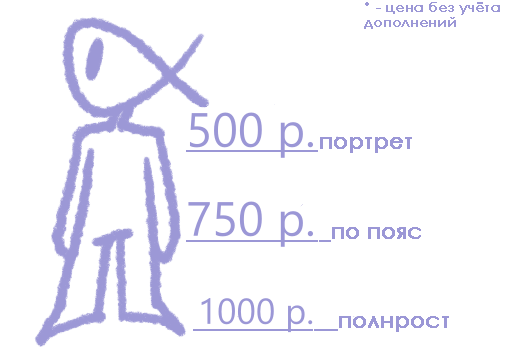
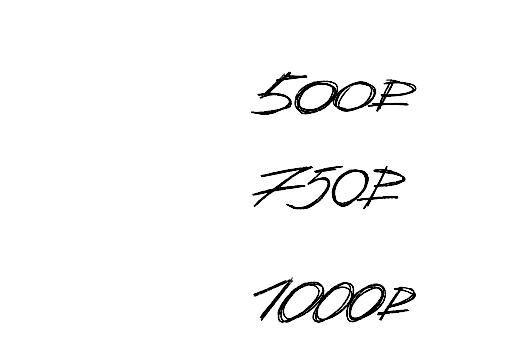
fix(comm.md): улучшено форматирование заголовков и добавлено описание условий работы

Changed region(s): [[0.0588, 0.0286, 0.8824, 1.0], [0.7059, 0.0, 0.9706, 0.0857], [0.6471, 0.6286, 0.8235, 0.6857]]

diff --git a/comm.md b/comm.md
@@ -13,9 +13,9 @@ header: False
 
 ![](/img/commprice.png){: width="920" height="300"}
 
-### Я рисую:
+#### Я рисую:
 &ensp; Люди, фурри, НСФВ (_с доплатой_), мелкие детали на персонажах, разные вариации стиля (см. мои имеющиеся работы в портфолио)
-### Не рисую:
+#### Не рисую:
 &ensp; Животные (ферралы), механизмы, гуро и сцены насилия
 
 ---
@@ -27,7 +27,7 @@ header: False
 &ensp; После скетча заказчиком вносится _предоплата 50%_ для продолжения работы.  
 &ensp; При включении 2го персонажа и более заказчиком вносится _доплата 100%_ на каждого от изначальной стоимости заказа.  
 &ensp; Правки на моменте скетча бесплатны. Если необходимо исправить что-то уже в готовой работе - _доплата 100 р._  
-&ensp; Если возникнет ситуация, когда работу не получится завершить по какой-либо причине - _вся оплаченная сумма за заказ возвращается заказчику._
+&ensp; Если возникнет ситуация, когда работу не получится завершить по какой-либо причине - _вся оплаченная сумма за заказ возвращается заказчику._  
 &ensp; Базовый дедлайн устанавливается от 2х недель до 1,5 месяцев. Если нужно выполнить работу быстрее - заказчиком вносится _доплата 50%_
 
 ### Оплата:
